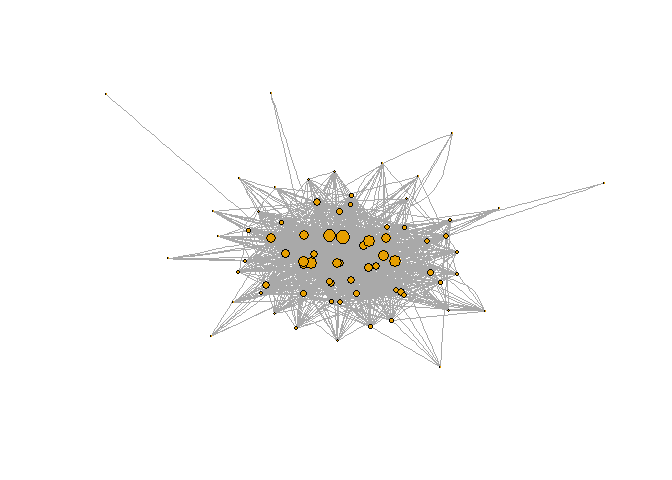
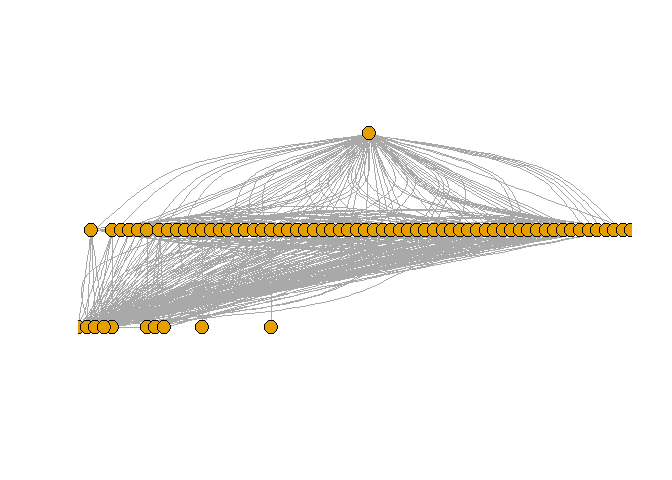
add more plots

Changed region(s): [[0.0938, 0.25, 0.9375, 0.7188], [0.625, 0.7188, 0.6562, 0.7812]]

diff --git a/network analysis/twitter.md b/network analysis/twitter.md
@@ -69,20 +69,41 @@ degr.score <- degree(twitterg)
 V(twitterg)$size <- degr.score/15
 V(twitterg)$name <- ifelse(V(twitterg)$size>10,V(twitterg)$name,NA)
 #twitterg$layout <- layout.fruchterman.reingold(twitterg, niter=5000)
+plot( twitterg, layout = layout.reingold.tilford,
+      edge.width = 1,
+      edge.arrow.width = 0.3,
+      vertex.size = 5,
+      edge.arrow.size = 0.5,
+      vertex.size2 = 3,
+      vertex.label.cex = 1,
+      asp = 0.35,
+      margin = -0.1)
+```
+
+![](twitter_files/figure-markdown_github/unnamed-chunk-3-1.png)
+
+``` r
+plot(twitterg,layout=layout.circle)
+```
+
+![](twitter_files/figure-markdown_github/unnamed-chunk-3-2.png)
+
+``` r
 igraph.options(plot.layout=layout.graphopt, vertex.size=7)
 
 plot(twitterg, asp=0)
 ```
 
-![](twitter_files/figure-markdown_github/unnamed-chunk-3-1.png)
+![](twitter_files/figure-markdown_github/unnamed-chunk-3-3.png)
+
+on this graph you can see that there is connection almost between all the members, the few white areas shows on the missing connections but you can see by that graph that almost everyone connected
 
 ``` r
 #restore names and sizes
 twitterg <- graph.data.frame(new, directed = F)
 ```
 
-Centrality
-----------
+three plots for the same graph, in first one is divided to three groups and the second plot is graphopt which try to optimize the view. the third is a circle. As we can see, all the Mks are connected so the edges overrides each other \#\#Centrality
 
 ### Compute betweenes
 
@@ -189,7 +210,9 @@ print(modularity(tgc))
 plot(tgc,twitterg)
 ```
 
-![](twitter_files/figure-markdown_github/unnamed-chunk-7-1.png) \#\#\#Second algorithm
+![](twitter_files/figure-markdown_github/unnamed-chunk-8-1.png)
+
+### Second algorithm
 
 ``` r
 set.seed(123)
@@ -235,4 +258,4 @@ print(modularity(tgreedy))
 plot(tgreedy,twitterg)
 ```
 
-![](twitter_files/figure-markdown_github/unnamed-chunk-8-1.png)
+![](twitter_files/figure-markdown_github/unnamed-chunk-9-1.png)
